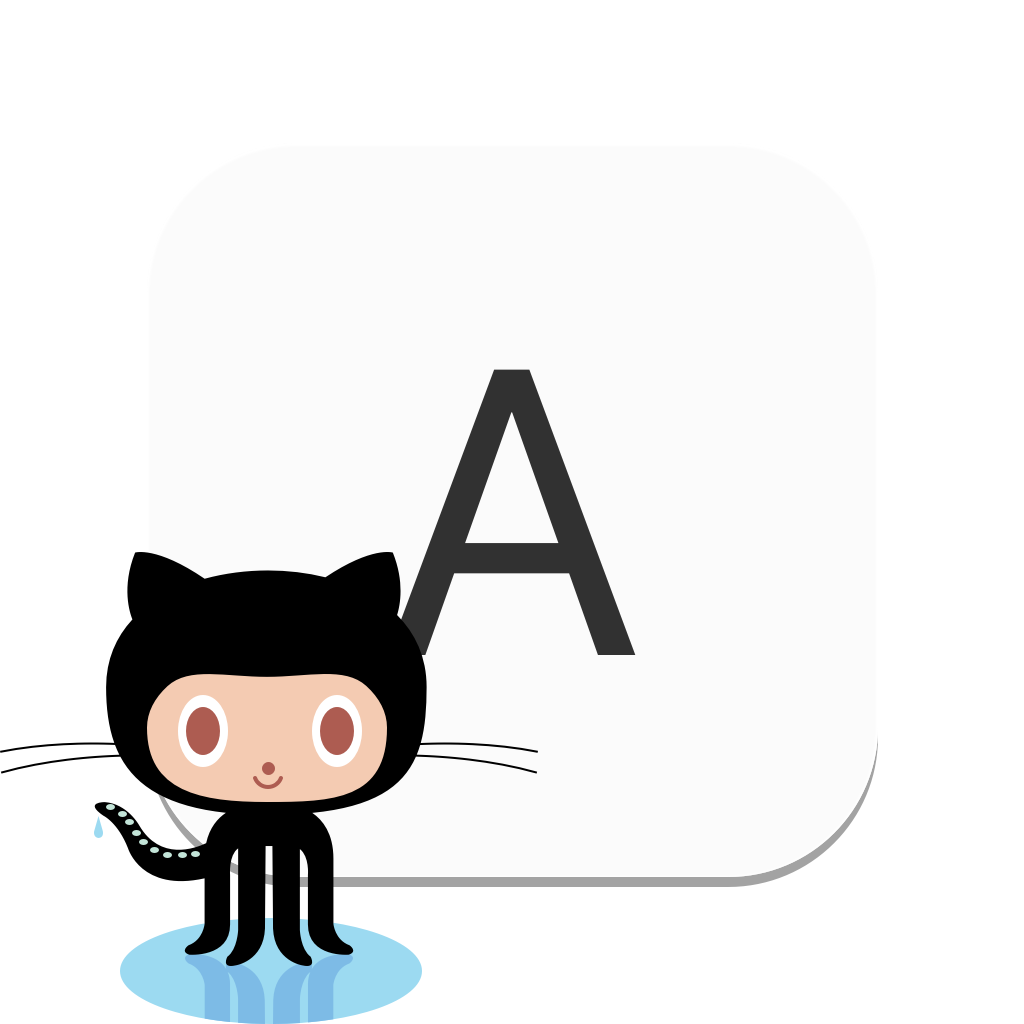
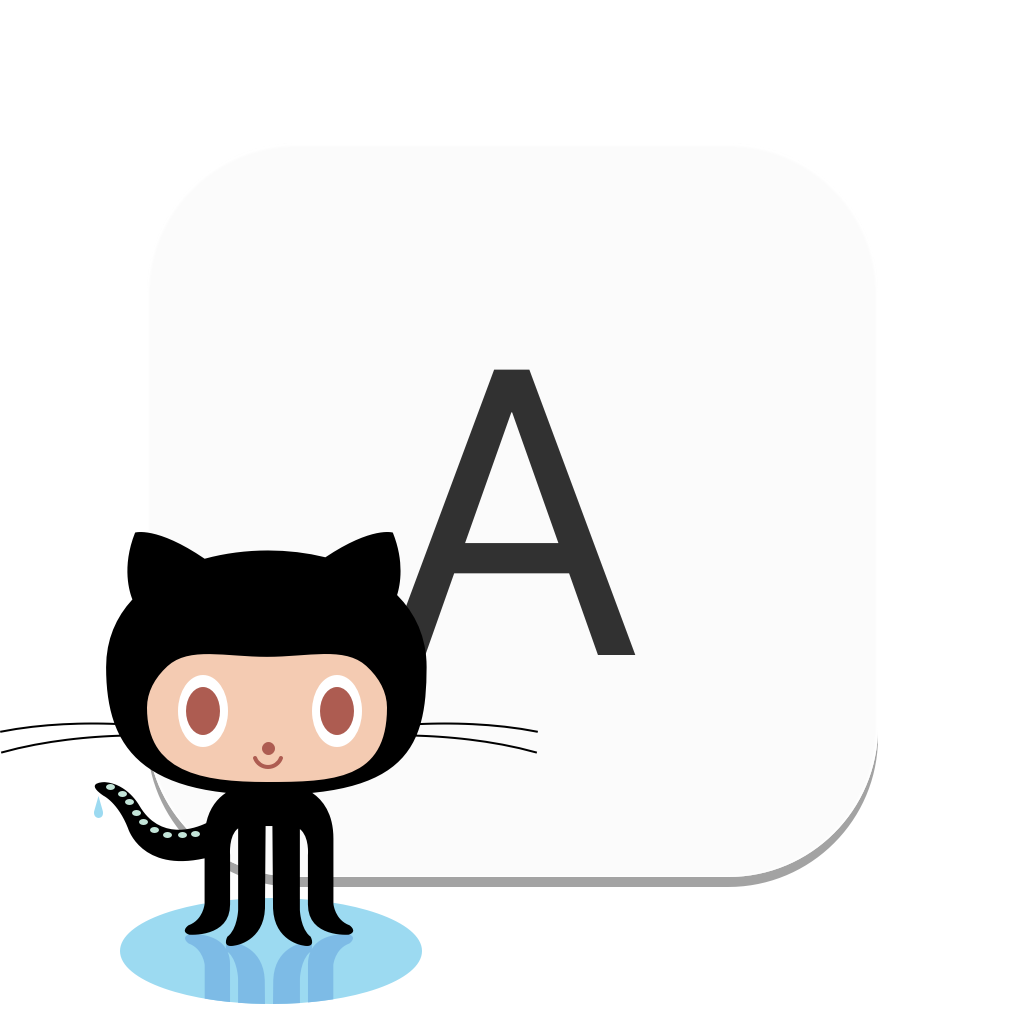
Adjust grid and hero design

diff --git a/_sass/kankoda/grids.scss b/_sass/kankoda/grids.scss
@@ -26,28 +26,25 @@
 
 
 .grid.home-features {
-  margin: 80px 0;
+  margin: 50px 0;
+  grid-column-gap: 40px;
   grid-template-columns: repeat(2, 1fr);
 
   img {
-      box-shadow: none;
-      width: 225px;
-  }
-
-  .flags {
-      padding: 40px 0;
-
+    width: 225px;
+    box-shadow: none;
   }
 
   a p {
-      font-weight: normal;
-  }
-  h2, p {
-      text-align: left;
+    font-weight: normal;
   }
 
-  h2 {
-      font-size: 1.2em;
+  h3, p {
+    text-align: left;
+  }
+
+  h3 {
+    margin-top: 20px;
   }
 }
 
@@ -101,6 +98,11 @@
   
   .grid.blog { 
     grid-row-gap: 20px;
+    grid-template-columns: repeat(1, 1fr);
+  }
+
+  .grid.home-features { 
+    grid-row-gap: 50px;
     grid-template-columns: repeat(1, 1fr);
   }
 

diff --git a/_sass/site/heros.scss b/_sass/site/heros.scss
@@ -1,24 +1,25 @@
-.home.hero {
+.hero {
 
     img {
-        width: 100%;
-        margin-top: 30px;
+        padding: 10px 0;
+        width: 250px;
     }
 
     .hero-line {
         margin-top: -180px;
-        margin-bottom: 120px;
+        margin-bottom: 90px;
     }
 }
 
-.hero {
+.home.hero {
 
     img {
-        width: 350px;
+        width: 100%;
+        margin-top: 20px;
     }
 
     .hero-line {
-        margin-top: -215px;
-        margin-bottom: 160px;
+        margin-top: -200px;
+        margin-bottom: 130px;
     }
 }
